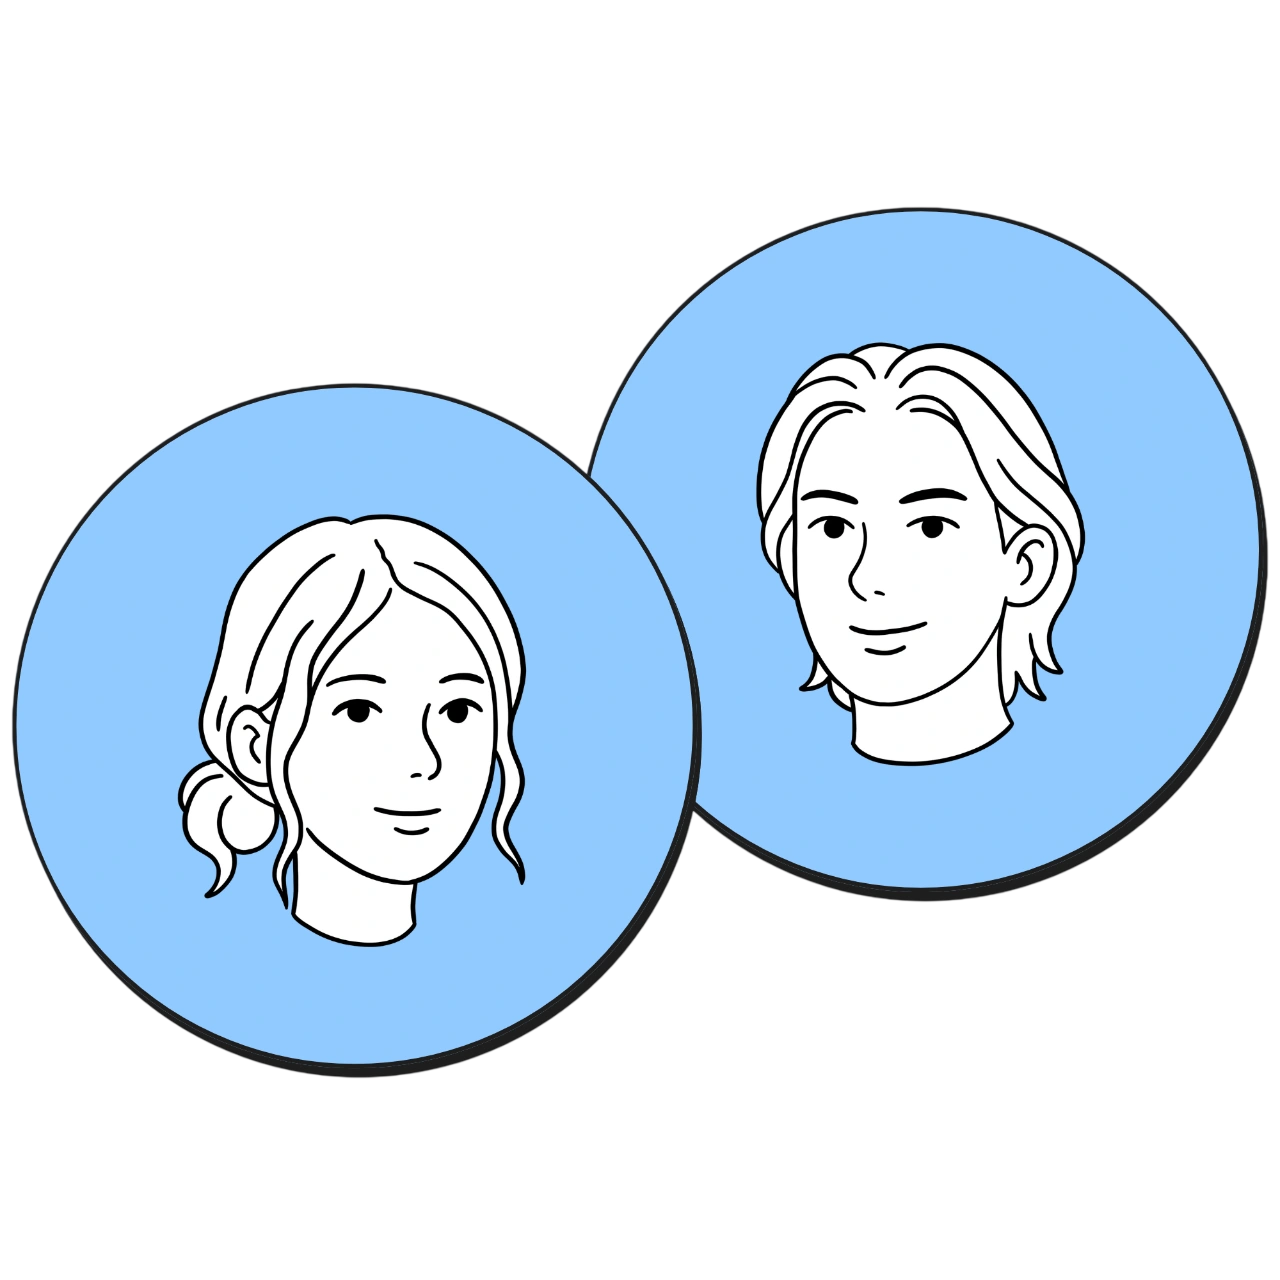
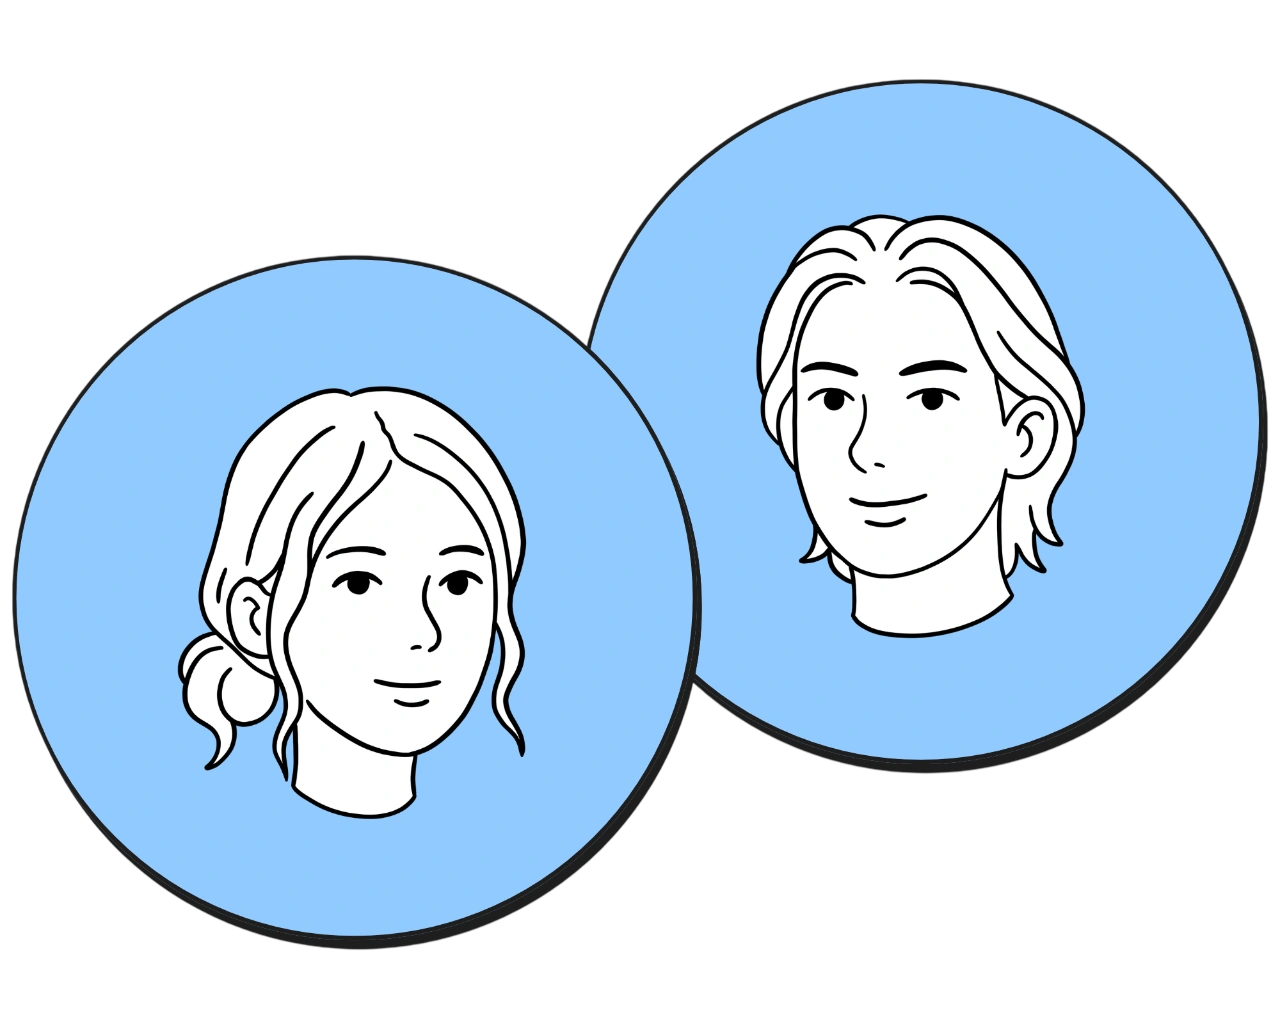
new hero image and a little padding

diff --git a/frontend/src/Styles/index.css b/frontend/src/Styles/index.css
@@ -19,9 +19,7 @@ html {
 
 body {
   margin: 0;
-  font-family: -apple-system, BlinkMacSystemFont, 'Segoe UI', 'Roboto', 'Oxygen',
-    'Ubuntu', 'Cantarell', 'Fira Sans', 'Droid Sans', 'Helvetica Neue',
-    sans-serif;
+  font-family: "Poppins", "Anuphan", sans-serif;
   -webkit-font-smoothing: antialiased;
   -moz-osx-font-smoothing: grayscale;
   background-color: var(--app-bg);

diff --git a/frontend/src/Styles/Hero.css b/frontend/src/Styles/Hero.css
@@ -136,7 +136,7 @@
     border: none;
     box-shadow: none;
     max-width: 100%;
-    padding: 0;
+    padding: 0 1.25rem;
     gap: 0;
   }
 
